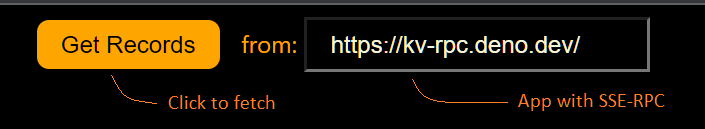
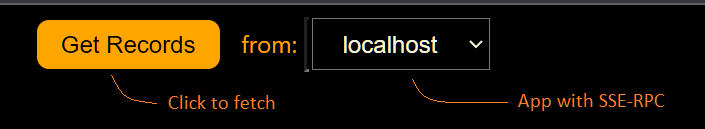
updated images

Changed region(s): [[0.4681, 0.2791, 0.8426, 0.4341], [0.4369, 0.124, 0.9362, 0.5581]]

diff --git a/index.html b/index.html
@@ -10,8 +10,12 @@
 <body>
    <div class="header">
       <button id="getbtn">Get Records</button>
-      <label for="url">from:</label>
-      <input type="text" id="url" value="https://kv-rpc.deno.dev/"></input>
+      <label for="urls">from:</label>
+      <select name="urls" id="urls" default="Deploy">
+         <option value="https://kv-rpc.deno.dev/">Deploy</option>
+         <option value="https://fresh-sse-db.deno.dev/">Fresh</option>
+         <option value="http://localhost:9099">localhost</option>
+       </select>
       <!-- <button id="setbtn">Set Record</button>    "https://fresh-sse-db.deno.dev/" "https://kv-rpc.deno.dev/"
       <label for="key">key:</label>
       <input type="text" id="key" value="[ 'users', 1 ]"></input>

diff --git a/main.js b/main.js
@@ -6,12 +6,11 @@ import { DbClient } from './dbClient.js'
 // when the getBtn is clicked, we first clear the treeView 
 // then we fetch a fresh dataSet from the url
 document.getElementById('getbtn').addEventListener('click', () => {
-
+   const urls = document.getElementById('urls')
    // clear the tree
    const tree = document.getElementById('tree')
+   let DBServiceURL = urls.value
    tree.innerHTML = ''
-
-   const DBServiceURL = document.getElementById('url').value
    const thisDB = new DbClient(DBServiceURL)
    console.log(DBServiceURL)
 

diff --git a/styles.css b/styles.css
@@ -28,7 +28,16 @@ button {
 label {
    color: orange;
 }
+
 input {
+   margin-right: 10px;
+   background-color: black;
+   color:beige;
+   padding: 7px 16px;
+   font-size: 16px;
+}
+
+select {
    margin-right: 10px;
    background-color: black;
    color:beige;

diff --git a/README.md b/README.md
@@ -38,6 +38,10 @@ This simple client demonstrates a minimal transaction-based SSE-RPC service.
 First, launch the Treeview Client from Github-Pages          
 https://nhrones.github.io/KvRPC_TreeClient/    
 
+Select a DB source. (note: localhost requires starting a local test server)    
+
+![Alt text](selectDB.png)
+
 Next, click the **Get Records** button.    
 
 ![Alt text](clickToFetch.png)    
